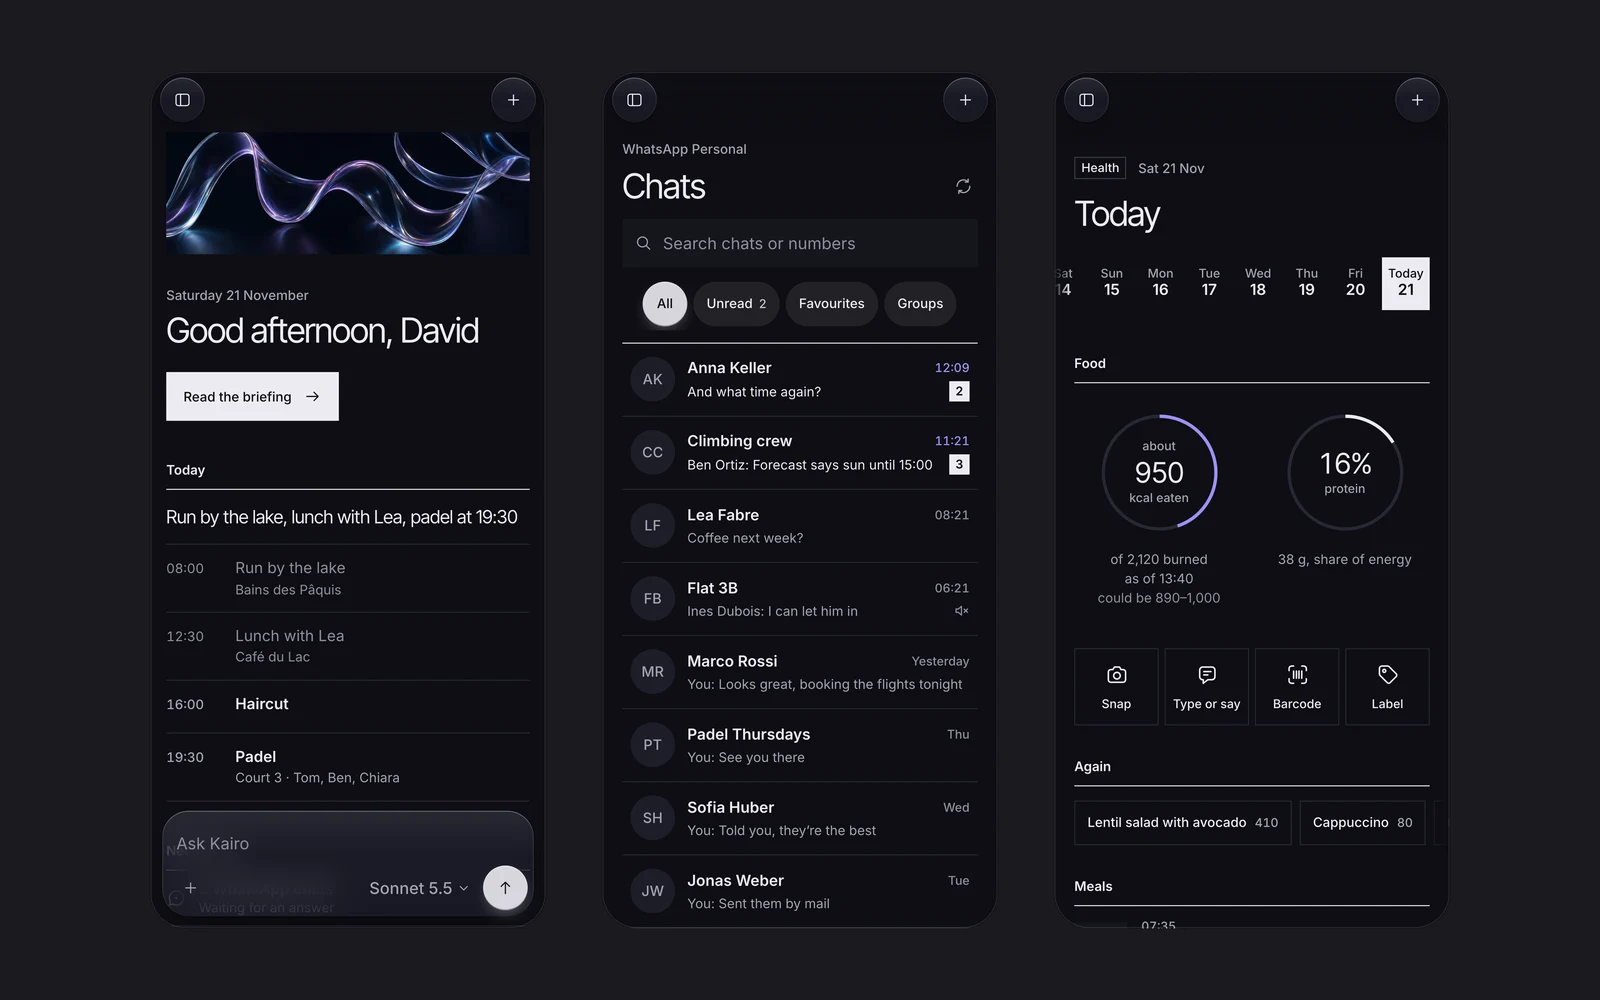
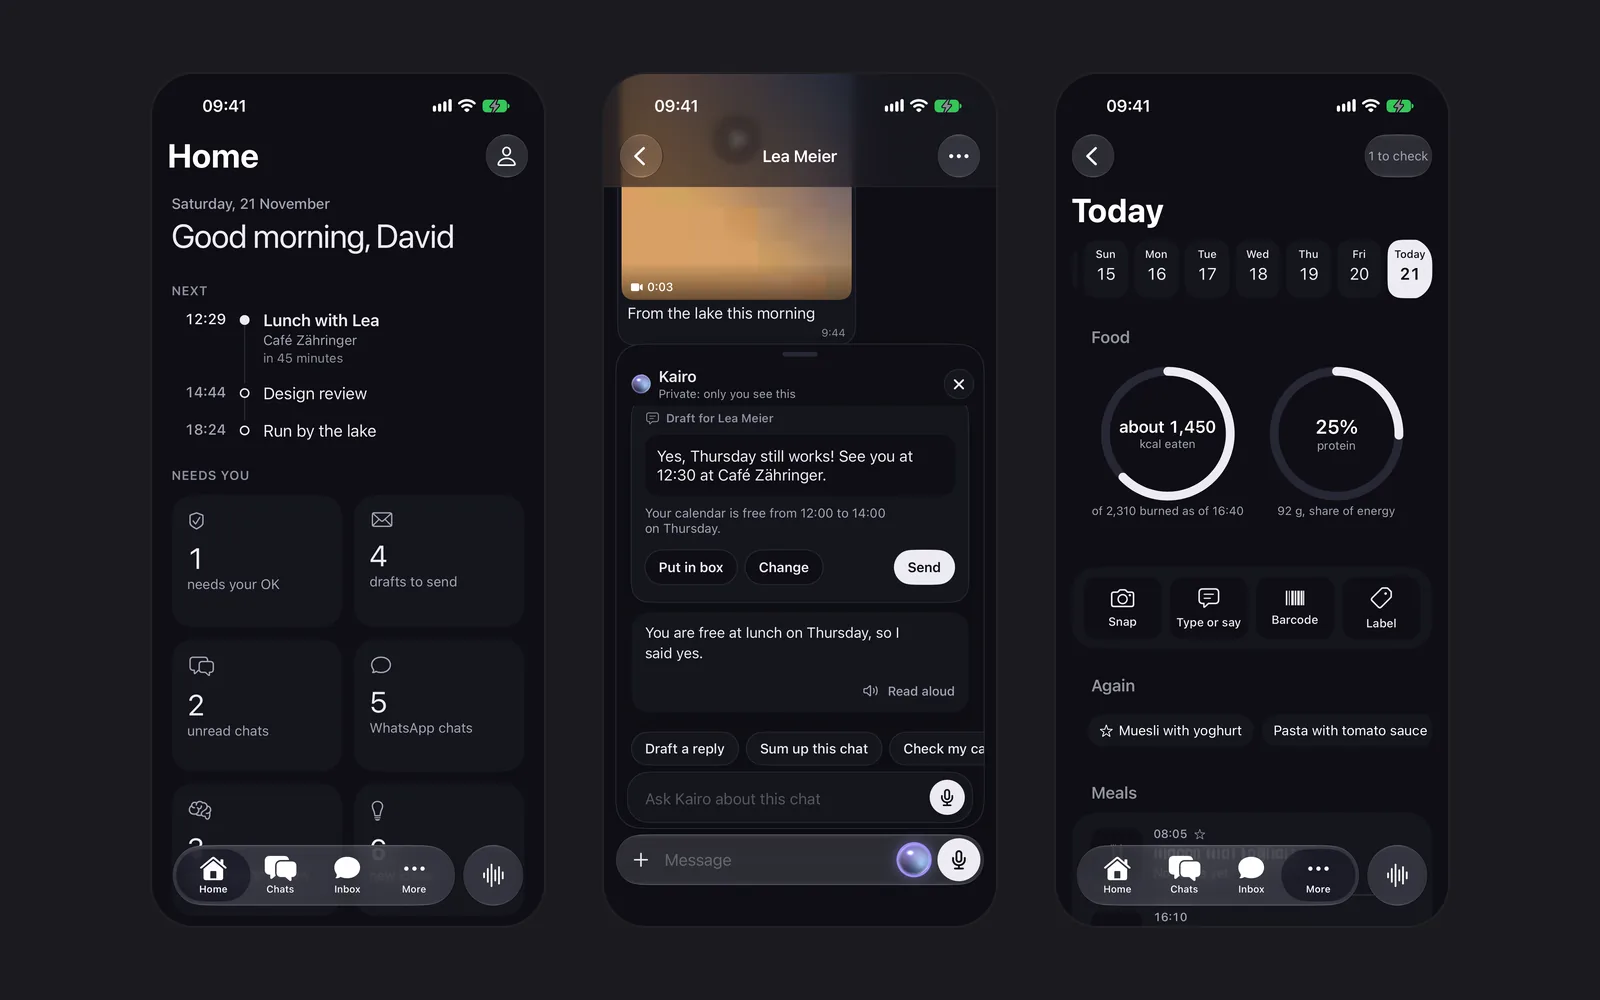
Update from rive-foundry.com (2026-11-21)

diff --git a/components/site/kairo-section.tsx b/components/site/kairo-section.tsx
@@ -25,9 +25,10 @@ const PARTS: Array<{ title: string; body: string[] }> = [
   {
     title: "WhatsApp",
     body: [
-      "Two small bridges run next to Kairo on the same server, one for my personal number and one for WhatsApp Business. Kairo reads their chats and gets every new message the moment it arrives, so the WhatsApp page is live: groups, photos, voice notes with transcripts, replies and reactions. Opening a chat in Kairo doesn't send a read receipt; that only happens when I answer.",
-      "For dictation, the app streams my voice to Kairo, which relays it to OpenAI's realtime transcription, so the words show up while I speak. When I stop, Claude tidies them into the message I meant, using my own earlier messages in that chat as its style guide. For drafts, it reads the last part of the conversation and writes the next message as me. Both only fill the box. Nothing leaves until I tap Send.",
-      "Notifications go to the iPhone through Apple's push service, and to the web app as web push. A notification service extension on the phone turns a message into a proper conversation notification with the sender's picture, and with AirPods in it swaps the sound for the message spoken in Kairo's OpenAI voice. A content extension puts a Play button on the expanded notification. Messages that arrive together in one chat become one notification, and muted chats, my own messages and the chat I'm reading stay quiet. When something is read anywhere, a silent push clears it from the phone and sets the badge.",
+      "Two small bridges run next to Kairo on the same server, one for my personal number and one for WhatsApp Business. Kairo reads their chats and gets every new message the moment it arrives, so the WhatsApp page is live: groups, photos, voice notes with transcripts, replies and reactions. Opening a chat in Kairo marks it read on WhatsApp too, so the other side sees blue ticks, and so do messages that arrive while it is open.",
+      "For dictation, the app streams my voice as small audio frames over a WebSocket to Kairo, which relays them to OpenAI's realtime transcription, so the words show up while I speak and the OpenAI key never leaves my server. Before it starts, Kairo reads the chat's recent messages and, when one language clearly leads, tells the transcriber to expect it; otherwise OpenAI detects it. As soon as the words settle, the fast model tidies them into the message I meant, in my tone in that chat. If it is slow, I get the words as spoken. Dictation only fills the box. Nothing leaves until I tap Send.",
+      "Kairo in a chat is an ordinary Kairo session, one per WhatsApp chat, titled after it and kept in the right space. Each question goes in with the chat's last 40 messages, its name, whether it is a group and its language, but only my question is saved in the record. That session gets one extra tool, whatsapp_draft, which shows the draft as a card in the panel, and its WhatsApp sending tools are switched off, so the only way a message leaves is my tap on Send. Any other tool that reaches people still asks first. The session stays silent: no notifications, no unread marks, no Live Activity.",
+      "Notifications go to the iPhone through Apple's push service, and to the web app as web push. A notification service extension on the phone turns a message into a proper conversation notification with the sender's picture, and with AirPods in it swaps the sound for the message spoken in Kairo's OpenAI voice. A content extension puts a Play button on the expanded notification. Messages that arrive together in one chat become one notification, and muted chats, my own messages and the chat I'm reading stay quiet. When something is read or handled anywhere, a silent push, gathered over a second or two, sets the badge and removes the notifications that no longer matter. A test route sends one sample of every kind to the phone that asked, Live Activity included.",
     ],
   },
   {
@@ -36,6 +37,13 @@ const PARTS: Array<{ title: string; body: string[] }> = [
       "Voice mode is a realtime model doing the talking, OpenAI or Gemini Live, and handing every real question to the chat's Claude session. In the iPhone app the call runs natively over WebRTC, and the phone treats it as a real call through LiveCommunicationKit, so I can lock the screen, put the phone in my pocket and keep talking. For the briefing, Kairo sends a VoIP push that rings like a call, and AlarmKit wakes me into it. Approvals still need a tap, voice or no voice.",
       "The watch can't hold a WebRTC call for long, so it does push-to-talk instead: it records a short clip, sends it over plain HTTPS, and plays back Kairo's spoken answer.",
       "The orb you talk to is a drop of glass rendered live: Metal in the app, WebGL in the browser, at 60 frames a second, moving with my voice and with Kairo's.",
+    ],
+  },
+  {
+    title: "Small jobs on a fast model",
+    body: [
+      "Anything small without tools goes to one cheap, fast OpenAI model, gpt-6-luna, with reasoning switched off, a small answer limit, strict JSON where a job needs fields and nothing stored on OpenAI's side. It tidies dictation, writes the reply suggestions, the spoken summaries for the watch, Siri and the Lock Screen, natural read-aloud text and chat titles, and says yes or no on whether a mail or workout deserves a notice. While Kairo is in use, the server keeps one warm keep-alive connection to OpenAI open, and the jobs I sit waiting for go out on the priority tier. Most answers take about half a second, and the whole thing costs cents a day.",
+      "Every job has a hard time limit and its own fallback when the model is slow or down: the first sentences instead of a summary, the words as spoken instead of a tidy, no suggestions at all. Only timings go in the log, never content.",
     ],
   },
   {
@@ -79,7 +87,7 @@ export function KairoSection() {
       </div>
       <p className="mt-10 text-sm text-muted-foreground">
         Runs on Node.js, the Claude Agent SDK with Claude Sonnet and Opus, SQLite, Playwright, OpenAI and Gemini Live
-        for voice and transcription, Swift, SwiftUI and Metal on the iPhone and the Apple Watch, Docker on a home NAS, and Dbrain for memory. Single user, started
+        for voice and transcription, a fast OpenAI model for small jobs, Swift, SwiftUI and Metal on the iPhone and the Apple Watch, Docker on a home NAS, and Dbrain for memory. Single user, started
         October 2026. Kairo is private, so there is nothing to link to.
       </p>
     </section>

diff --git a/lib/graph.ts b/lib/graph.ts
@@ -368,7 +368,8 @@ export const PRODUCTS: Product[] = [
     ],
     highlights: [
       "My personal and business WhatsApp, live inside the app: chats, groups, photos, voice notes with transcripts, replies and reactions",
-      "Dictation that writes the message I meant, and drafts in my own voice; nothing goes out until I tap Send",
+      "Live dictation that writes the message I meant, and drafts in my own voice; nothing goes out until I tap Send",
+      "Kairo inside every WhatsApp chat: a private panel to draft, sum up, translate or check my calendar, knowing the chat",
       "A notification for every new message, saying who wrote and on which account, and quiet for muted chats",
       "Voice with the screen locked: a real phone call on OpenAI's realtime voice that hands the real work to Claude, and Kairo can ring me with the briefing",
       "A fully native iPhone app, with approvals on the Lock Screen and the watch, Live Activities, widgets, Siri and an Apple Watch app",
@@ -379,14 +380,14 @@ export const PRODUCTS: Product[] = [
       "It cleans up after itself: briefings go after a week, the other things it writes on its own after two to four weeks",
     ],
     facts: [],
-    stack: ["Node.js (plain ESM)", "Claude Agent SDK", "SQLite", "Playwright", "OpenAI realtime voice (WebRTC)", "Gemini Live", "Swift and SwiftUI", "watchOS", "APNs", "Metal", "WebKit", "Web Push", "Docker", "Synology NAS", "Cloudflare Tunnel", "MCP"],
+    stack: ["Node.js (plain ESM)", "Claude Agent SDK", "SQLite", "Playwright", "OpenAI realtime voice (WebRTC)", "OpenAI realtime transcription", "Gemini Live", "Swift and SwiftUI", "watchOS", "APNs", "Metal", "WebKit", "Web Push", "Docker", "Synology NAS", "Cloudflare Tunnel", "MCP"],
     platforms: ["iOS", "watchOS", "Web (PWA)"],
     themes: ["agentic-ai", "human-in-the-loop", "self-hosting", "mcp-tool-use"],
     started: "2026-10",
     image: img("kairo"),
     screens: [
-      { src: "/work/kairo/screen-01-places.webp", alt: "Three phone screens of Kairo in dark mode: the home screen with today's events, the WhatsApp chat list with unread counts, and Health with calories eaten and protein as rings.", caption: "The three places I open most: home with today at a glance, my WhatsApp, and Health.", width: 1600, height: 1000 },
-      { src: "/work/kairo/screen-02-moments.webp", alt: "Three phone screens: the morning briefing with the day on an hour timeline, a WhatsApp chat with a drafted reply in the message box, and a week of calories eaten and burned as bars.", caption: "The morning briefing, a reply Kairo drafted in the chat's own tone and left in the box for me, and the week in numbers.", width: 1600, height: 1000 },
+      { src: "/work/kairo/screen-01-places.webp", alt: "Three iPhone screens of the native Kairo app in dark mode: Home with a greeting, the next events and cards for what needs me, a WhatsApp chat with Kairo's private panel showing a drafted reply with Put in box, Change and Send, and Health with calories eaten and protein as rings.", caption: "The native app: home with the day at a glance, Kairo drafting a WhatsApp reply inside the chat, and Health.", width: 1600, height: 1000 },
+      { src: "/work/kairo/screen-02-moments.webp", alt: "Three iPhone screens: a WhatsApp chat with live dictation, the spoken words appearing in the message bar with the language tag EN and buttons to cancel, stop and send, a Kairo chat that checked the calendar and asks my OK before booking the dentist, and the morning AI paper.", caption: "Dictating a WhatsApp reply as I speak, Kairo waiting for my OK before it books something, and my morning paper.", width: 1600, height: 1000 },
     ],
     screensNote: "A local copy with made-up people, chats and meals.",
     imageAlt: "Azure illustration of an astronaut on a rock talking to a floating drop of liquid glass that glows like a voice orb",
@@ -965,7 +966,7 @@ export const EDGES: Edge[] = [
  * with the month they happened; dates match `started` on the products.
  */
 export const MISSION_LOG: Array<{ date: string; label: string; text: string; href?: string }> = [
-  { date: "2026-11-21", label: "Nov 2026", text: "Made Kairo a fully native iPhone app, with an Apple Watch app, approvals on the Lock Screen and WhatsApp read aloud in my AirPods.", href: "/work/kairo" },
+  { date: "2026-11-21", label: "Nov 2026", text: "Made Kairo a fully native iPhone app, with an Apple Watch app, approvals on the Lock Screen and WhatsApp read aloud in my AirPods, and put Kairo inside every WhatsApp chat, with live dictation and quick jobs on a fast OpenAI model.", href: "/work/kairo" },
   { date: "2026-11", label: "Nov 2026", text: "Gave my private assistant its own name, Kairo, with an iPhone app, live WhatsApp and a voice that works with the screen locked.", href: "/work/kairo" },
   { date: "2026-11", label: "Nov 2026", text: "Launched FDE Club, a community for forward deployed engineers in Switzerland, built by 122 AI agents.", href: "/work/fde-club" },
   { date: "2026-11", label: "Nov 2026", text: "Rebuilt my recruiting tool as Haystack OS, a lean ATS and CRM where Claude runs on my own subscription.", href: "/work/haystack-os" },

diff --git a/components/site/kairo-tour.tsx b/components/site/kairo-tour.tsx
@@ -121,8 +121,16 @@ const GROUPS: Array<{ title: string; parts: Part[] }> = [
         title: "WhatsApp",
         body: [
           "My personal and my business WhatsApp live inside Kairo: every chat and group, photos, videos, voice notes with transcripts, replies and reactions. I can dictate and get the message I meant, or let it draft the reply from the conversation; either way it only fills the box until I tap Send. A new message arrives as a notification that says who wrote and on which account.",
-          "On the phone it behaves like the WhatsApp I know. While I dictate, the words appear as I speak, and Kairo tidies them in the chat's style when I stop. I hold the mic for a voice note, slide away to cancel or up to lock it, swipe a message to reply to it, and mute a chat in Kairo without touching WhatsApp. Opening a chat marks it read.",
+          "On the phone it behaves like the WhatsApp I know. I hold the mic for a voice note, slide away to cancel or up to lock it, swipe a message to reply to it, and mute a chat in Kairo without touching WhatsApp. Opening a chat reads it, blue ticks included, just like WhatsApp.",
+          "Dictation works like in the Claude app: the words appear while I speak, and X throws them away, Stop leaves them in the box and Send sends. Kairo works out the chat's language from its messages and shows it as a small tag I can tap to switch. When I stop, it tidies the words in the way I write in that chat, in about half a second. And when someone wrote last, up to three short replies sit above the box; a tap puts one in, it never sends.",
           "And it can read my messages to me. With AirPods in, a new message is spoken in Kairo's voice as the notification itself: \"Anna says: running ten minutes late\". Otherwise there is Play on the notification, or \"Read my messages\" for every unread chat in a row, and I can answer by voice.",
+        ],
+      },
+      {
+        title: "Kairo in a chat",
+        body: [
+          "Next to the mic in every WhatsApp chat sits Kairo's glass button. A tap opens a private panel that only I see, and there I can ask it to draft a reply, sum up the chat, check my calendar before I say yes to Saturday, translate, or anything else. It knows the chat it is in: the last 40 messages, who said what and the language, and it has all my usual tools.",
+          "A draft comes back as a card with three buttons: Put in box, Send, or Change, where I just say what to change. Kairo never sends a message by itself. Each time I open the panel it starts from a clean slate. And if I hold the button instead of tapping, I ask out loud and hear the answer read back.",
         ],
       },
       {
@@ -146,7 +154,7 @@ const GROUPS: Array<{ title: string; parts: Part[] }> = [
         title: "Notifications",
         body: [
           "Only the things that matter make a sound: approvals, replies, WhatsApp, calls and briefings. On top of that come Kairo notices, a few a day at most, outside quiet hours: a meeting that moved, a mail someone is waiting on, a train to catch, a workout, arriving somewhere. Each one ends with a line saying why I am seeing it.",
-          "Housekeeping stays silent. The badge counts what is really waiting on me, and when I read or handle something anywhere, on the Mac, the phone or the watch, its notification clears itself everywhere.",
+          "Housekeeping stays silent. The badge counts what is really waiting on me, and when I read or handle something anywhere, on the Mac, the phone or the watch, its notification clears itself everywhere. A Test notifications button in Settings sends me one of every kind, so I can check them all in a minute.",
         ],
       },
       {
@@ -176,6 +184,12 @@ const GROUPS: Array<{ title: string; parts: Part[] }> = [
         title: "Two spaces",
         body: [
           "Personal and Business, with one switch at the top. Each space has its own mailboxes, WhatsApp account, chats, drafts, goals and memories, and Kairo checks every single action against the space it belongs to.",
+        ],
+      },
+      {
+        title: "Small jobs",
+        body: [
+          "The real thinking stays on Claude. The small, quick jobs go to a fast OpenAI model instead: tidying a dictation, reply suggestions, the short spoken summaries for the watch, Siri and the Lock Screen, read-aloud text that sounds natural, chat titles, and a yes or no on whether something deserves a notice. Answers come back in about half a second, and it costs a few cents a day.",
         ],
       },
       {
